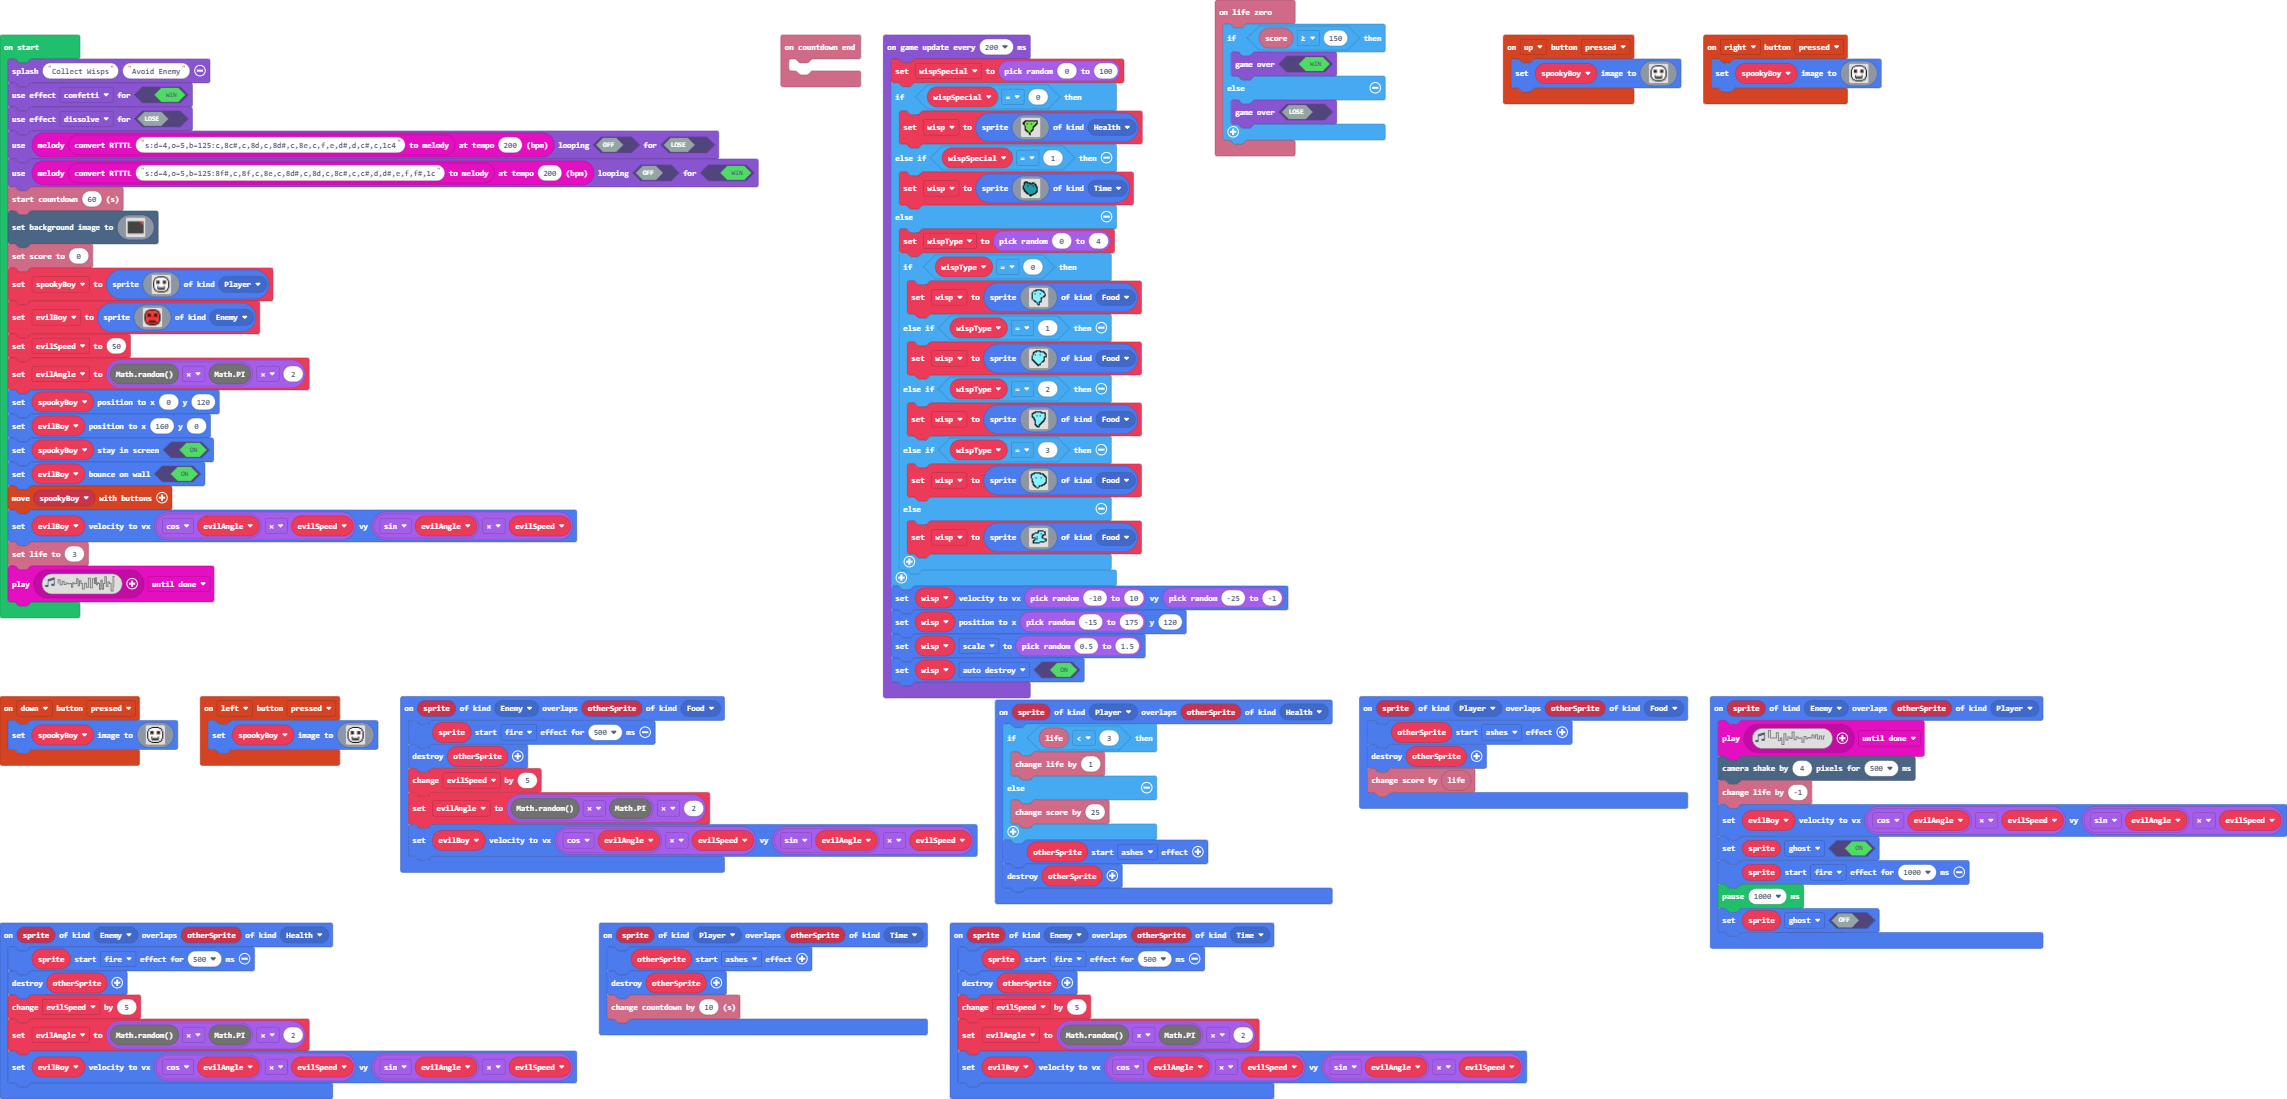
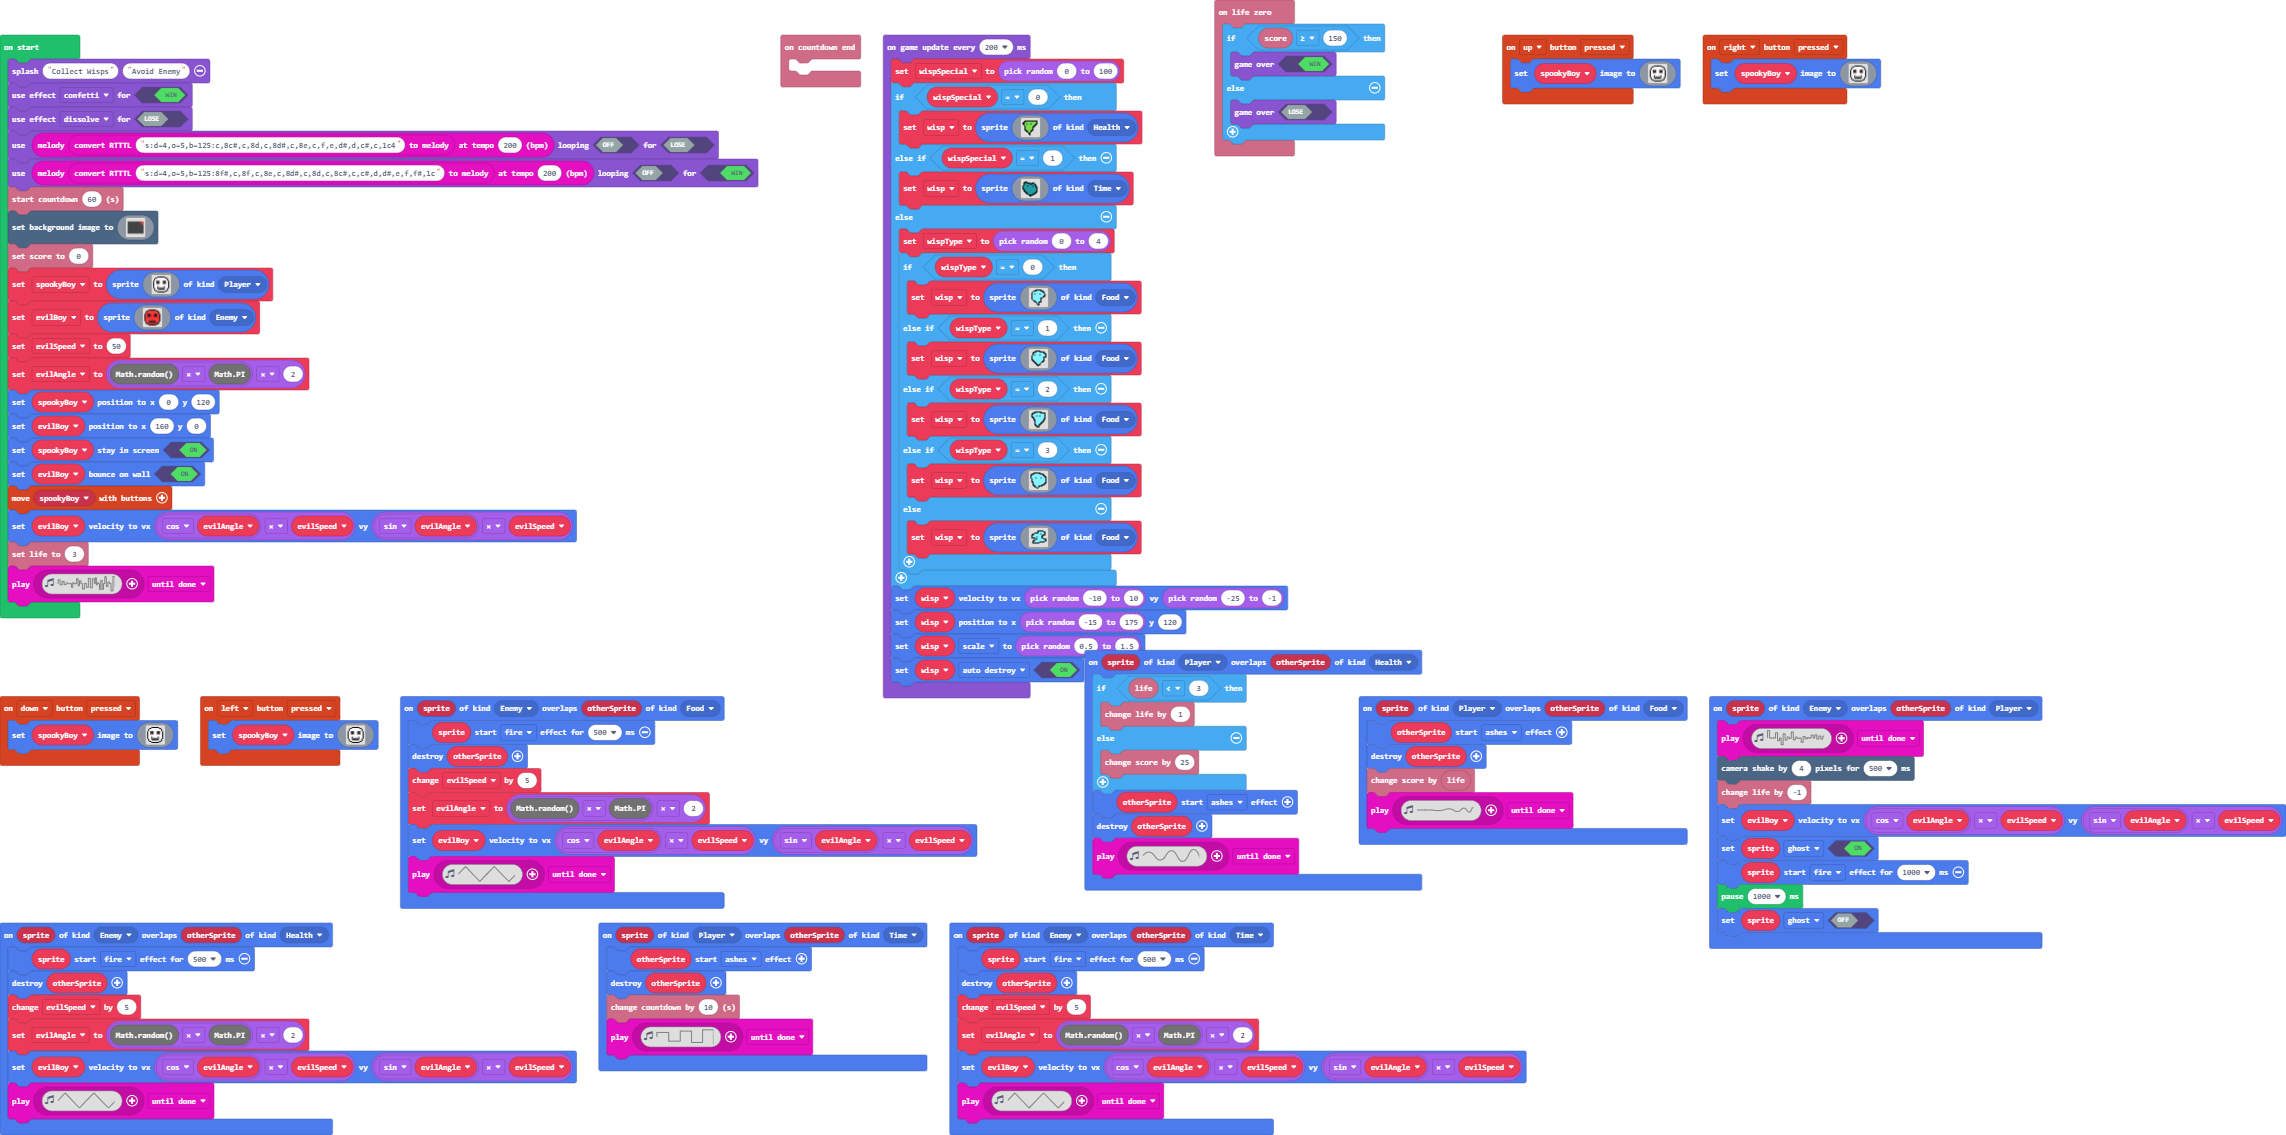
Update main.blocks, main.ts

Changed region(s): [[0.0, 0.0309, 1.0, 0.99], [0.6522, 0.0309, 0.8386, 0.0928], [0.528, 0.0, 0.6212, 0.1547]]

diff --git a/main.ts b/main.ts
@@ -9,6 +9,7 @@ sprites.onOverlap(SpriteKind.Player, SpriteKind.Time, function (sprite, otherSpr
     otherSprite.startEffect(effects.ashes)
     sprites.destroy(otherSprite)
     info.changeCountdownBy(10)
+    music.play(music.createSoundEffect(WaveShape.Square, 1273, 1808, 136, 255, 100, SoundExpressionEffect.None, InterpolationCurve.Linear), music.PlaybackMode.UntilDone)
 })
 controller.left.onEvent(ControllerButtonEvent.Pressed, function () {
     spookyBoy.setImage(assets.image`playerL`)
@@ -22,6 +23,7 @@ sprites.onOverlap(SpriteKind.Enemy, SpriteKind.Food, function (sprite, otherSpri
     evilSpeed += 5
     evilAngle = Math.random() * Math.PI * 2
     evilBoy.setVelocity(Math.cos(evilAngle) * evilSpeed, Math.sin(evilAngle) * evilSpeed)
+    music.play(music.createSoundEffect(WaveShape.Triangle, 339, 1, 255, 255, 100, SoundExpressionEffect.None, InterpolationCurve.Linear), music.PlaybackMode.UntilDone)
 })
 controller.right.onEvent(ControllerButtonEvent.Pressed, function () {
     spookyBoy.setImage(assets.image`playerR0`)
@@ -34,6 +36,7 @@ sprites.onOverlap(SpriteKind.Player, SpriteKind.Health, function (sprite, otherS
     }
     otherSprite.startEffect(effects.ashes)
     sprites.destroy(otherSprite)
+    music.play(music.createSoundEffect(WaveShape.Sine, 1363, 1592, 131, 255, 126, SoundExpressionEffect.None, InterpolationCurve.Logarithmic), music.PlaybackMode.UntilDone)
 })
 sprites.onOverlap(SpriteKind.Enemy, SpriteKind.Player, function (sprite, otherSprite) {
     music.play(music.createSoundEffect(WaveShape.Noise, 2334, 0, 255, 0, 100, SoundExpressionEffect.None, InterpolationCurve.Linear), music.PlaybackMode.UntilDone)
@@ -61,11 +64,13 @@ sprites.onOverlap(SpriteKind.Enemy, SpriteKind.Health, function (sprite, otherSp
     evilSpeed += 5
     evilAngle = Math.random() * Math.PI * 2
     evilBoy.setVelocity(Math.cos(evilAngle) * evilSpeed, Math.sin(evilAngle) * evilSpeed)
+    music.play(music.createSoundEffect(WaveShape.Triangle, 339, 1, 255, 255, 100, SoundExpressionEffect.None, InterpolationCurve.Linear), music.PlaybackMode.UntilDone)
 })
 sprites.onOverlap(SpriteKind.Player, SpriteKind.Food, function (sprite, otherSprite) {
     otherSprite.startEffect(effects.ashes)
     sprites.destroy(otherSprite)
     info.changeScoreBy(info.life())
+    music.play(music.createSoundEffect(WaveShape.Sine, 1, 5000, 0, 92, 100, SoundExpressionEffect.None, InterpolationCurve.Linear), music.PlaybackMode.UntilDone)
 })
 sprites.onOverlap(SpriteKind.Enemy, SpriteKind.Time, function (sprite, otherSprite) {
     sprite.startEffect(effects.fire, 500)
@@ -73,6 +78,7 @@ sprites.onOverlap(SpriteKind.Enemy, SpriteKind.Time, function (sprite, otherSpri
     evilSpeed += 5
     evilAngle = Math.random() * Math.PI * 2
     evilBoy.setVelocity(Math.cos(evilAngle) * evilSpeed, Math.sin(evilAngle) * evilSpeed)
+    music.play(music.createSoundEffect(WaveShape.Triangle, 339, 1, 255, 255, 100, SoundExpressionEffect.None, InterpolationCurve.Linear), music.PlaybackMode.UntilDone)
 })
 let wispType = 0
 let wisp: Sprite = null
